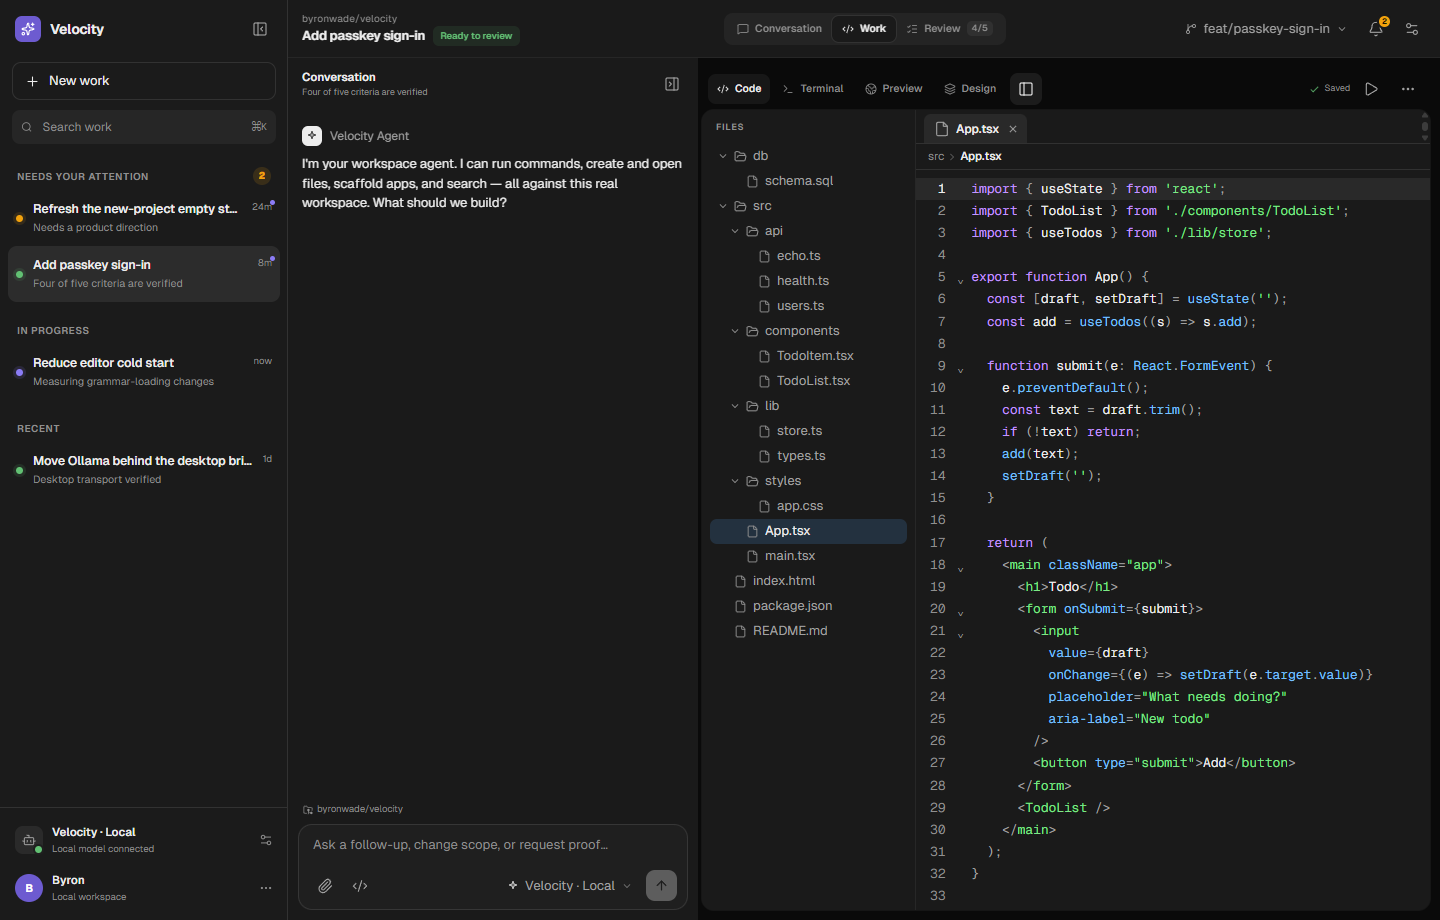
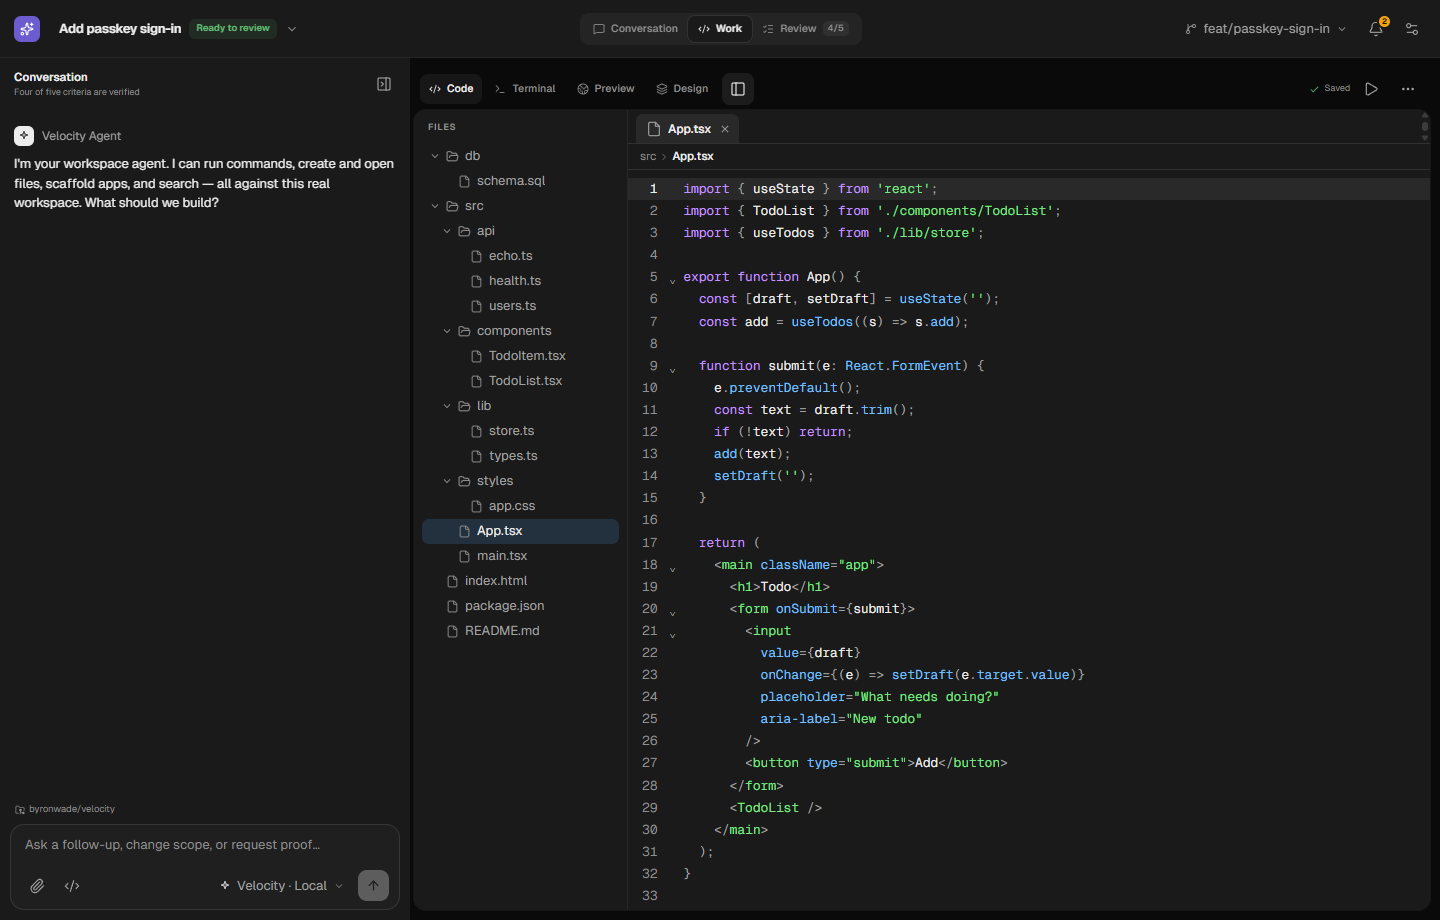
feat(ui): Framer-style top-header-only layout — remove the sidebar
Fold the entire workstream sidebar into a header dropdown so the whole space
below the top bar is working canvas.

- New WorkstreamSwitcher popover (search, grouped list, new-work, account +
  provider footer) opens from a header trigger showing the current workstream
  title + status. Closes on select / outside-click / Escape.
- Header is now a single bar: logo + switcher | Conversation/Work/Review tabs |
  branch · attention · settings. Removed the sidebar, its backdrop, the
  open/close controls, and all sidebarOpen state.
- The Work view (conversation + file tree + editor) and every view now span the
  full width — no 288px rail.
- README + screenshots updated for the new layout.

diff --git a/src/workbench/VelocityWorkbench.tsx b/src/workbench/VelocityWorkbench.tsx
@@ -24,11 +24,9 @@ import {
 	Layers3,
 	ListChecks,
 	LoaderCircle,
-	Menu,
 	MessageSquare,
 	Moon,
 	MoreHorizontal,
-	PanelLeftClose,
 	PanelRightClose,
 	PanelRightOpen,
 	Paperclip,
@@ -148,57 +146,49 @@ function WorkstreamRow({ workstream, active, onSelect }: WorkstreamRowProps) {
 	);
 }
 
-interface SidebarProps {
-	open: boolean;
+interface SwitcherProps {
 	search: string;
 	onSearch: (value: string) => void;
 	workstreams: Workstream[];
 	activeId: string | null;
 	onSelect: (id: string) => void;
 	onNew: () => void;
-	onClose: () => void;
 	onSettings: () => void;
 	provider: string;
 	ollamaHealthy: boolean | null;
 }
 
-function WorkstreamSidebar({ open, search, onSearch, workstreams, activeId, onSelect, onNew, onClose, onSettings, provider, ollamaHealthy }: SidebarProps) {
+/** The workstream switcher — the sidebar's job, folded into a header popover so
+ *  the whole space below the top bar is working canvas (Framer-style). */
+function WorkstreamSwitcher({ search, onSearch, workstreams, activeId, onSelect, onNew, onSettings, provider, ollamaHealthy }: SwitcherProps) {
 	const filtered = useMemo(() => {
 		const q = search.trim().toLowerCase();
 		if (!q) return workstreams;
 		return workstreams.filter((work) => `${work.title} ${work.objective} ${work.repo}`.toLowerCase().includes(q));
 	}, [search, workstreams]);
 	const attention = filtered.filter((work) => work.status === 'needs-input' || work.status === 'review-ready' || work.status === 'blocked');
-	const active = filtered.filter((work) => work.status === 'running' || work.status === 'draft');
+	const running = filtered.filter((work) => work.status === 'running' || work.status === 'draft');
 	const recent = filtered.filter((work) => work.status === 'done');
 
 	return (
-		<aside className={`vw-sidebar${open ? ' open' : ''}`} aria-hidden={!open}>
-			<div className="vw-sidebar-top" data-tauri-drag-region>
-				<div className="vw-brand">
-					<span className="vw-brand-mark"><Sparkles /></span>
-					<span>Velocity</span>
-				</div>
-				<button className="vw-icon-btn" onClick={onClose} title="Close sidebar" aria-label="Close sidebar"><PanelLeftClose /></button>
-			</div>
+		<div className="vw-switcher-popover" role="dialog" aria-label="Switch workstream">
 			<button className="vw-new-work" onClick={onNew}><Plus />New work</button>
 			<label className="vw-search">
 				<Search />
-				<input value={search} onChange={(event) => onSearch(event.target.value)} placeholder="Search work" />
-				<span>⌘K</span>
+				<input autoFocus value={search} onChange={(event) => onSearch(event.target.value)} placeholder="Search work" />
 			</label>
 
-			<div className="vw-sidebar-scroll">
+			<div className="vw-switcher-scroll">
 				{attention.length > 0 && (
 					<section className="vw-work-group">
 						<div className="vw-group-label"><span>Needs your attention</span><b>{attention.length}</b></div>
 						{attention.map((work) => <WorkstreamRow key={work.id} workstream={work} active={work.id === activeId} onSelect={() => onSelect(work.id)} />)}
 					</section>
 				)}
-				{active.length > 0 && (
+				{running.length > 0 && (
 					<section className="vw-work-group">
 						<div className="vw-group-label"><span>In progress</span></div>
-						{active.map((work) => <WorkstreamRow key={work.id} workstream={work} active={work.id === activeId} onSelect={() => onSelect(work.id)} />)}
+						{running.map((work) => <WorkstreamRow key={work.id} workstream={work} active={work.id === activeId} onSelect={() => onSelect(work.id)} />)}
 					</section>
 				)}
 				{recent.length > 0 && (
@@ -210,7 +200,7 @@ function WorkstreamSidebar({ open, search, onSearch, workstreams, activeId, onSe
 				{filtered.length === 0 && <div className="vw-sidebar-empty">No matching workstreams</div>}
 			</div>
 
-			<div className="vw-sidebar-footer">
+			<div className="vw-switcher-footer">
 				<button className="vw-provider-row" onClick={onSettings}>
 					<span className={`vw-provider-icon${ollamaHealthy ? ' connected' : ''}`}><Bot /></span>
 					<span><b>{provider}</b><small>{ollamaHealthy === true ? 'Local model connected' : ollamaHealthy === false ? 'Ollama is offline' : 'Model and runtime settings'}</small></span>
@@ -222,34 +212,69 @@ function WorkstreamSidebar({ open, search, onSearch, workstreams, activeId, onSe
 					<MoreHorizontal />
 				</button>
 			</div>
-		</aside>
+		</div>
 	);
 }
 
 interface HeaderProps {
 	active: Workstream | null;
+	activeId: string | null;
 	layout: WorkbenchLayout;
-	sidebarOpen: boolean;
-	onOpenSidebar: () => void;
+	workstreams: Workstream[];
+	search: string;
+	onSearch: (value: string) => void;
+	onSelectWork: (id: string) => void;
+	onNew: () => void;
 	onLayout: (layout: WorkbenchLayout) => void;
 	onAttention: () => void;
 	onActivity: () => void;
 	onSettings: () => void;
 	attentionCount: number;
+	provider: string;
+	ollamaHealthy: boolean | null;
 }
 
-function WorkstreamHeader({ active, layout, sidebarOpen, onOpenSidebar, onLayout, onAttention, onActivity, onSettings, attentionCount }: HeaderProps) {
+function WorkstreamHeader({ active, activeId, layout, workstreams, search, onSearch, onSelectWork, onNew, onLayout, onAttention, onActivity, onSettings, attentionCount, provider, ollamaHealthy }: HeaderProps) {
+	const [switcherOpen, setSwitcherOpen] = useState(false);
 	const verified = active?.criteria.filter((criterion) => criterion.state === 'verified').length ?? 0;
+	useEffect(() => {
+		if (!switcherOpen) return;
+		function onDown(event: MouseEvent) {
+			if (!(event.target as Element).closest('.vw-switcher')) setSwitcherOpen(false);
+		}
+		function onKey(event: KeyboardEvent) {
+			if (event.key === 'Escape') setSwitcherOpen(false);
+		}
+		window.addEventListener('mousedown', onDown);
+		window.addEventListener('keydown', onKey);
+		return () => {
+			window.removeEventListener('mousedown', onDown);
+			window.removeEventListener('keydown', onKey);
+		};
+	}, [switcherOpen]);
 	return (
 		<header className="vw-header" data-tauri-drag-region>
 			<div className="vw-header-left">
-				{!sidebarOpen && <button className="vw-icon-btn" onClick={onOpenSidebar} title="Open sidebar" aria-label="Open sidebar"><Menu /></button>}
-				<div className="vw-title-block">
-					<span className="vw-breadcrumb">{active ? active.repo : 'Velocity'}</span>
-					<div className="vw-title-line">
-						<h1>{active?.title ?? 'New work'}</h1>
+				<span className="vw-brand-mark" aria-hidden><Sparkles /></span>
+				<div className="vw-switcher">
+					<button className={`vw-switcher-trigger${switcherOpen ? ' open' : ''}`} onClick={() => setSwitcherOpen((value) => !value)} aria-haspopup="dialog" aria-expanded={switcherOpen}>
+						<span className="vw-switcher-title">{active?.title ?? 'New work'}</span>
 						{active && <span className={`vw-status-pill ${statusTone(active.status)}`}>{active.status === 'running' && <LoaderCircle className="vw-rotate" />}{STATUS_LABEL[active.status]}</span>}
-					</div>
+						<ChevronDown />
+					</button>
+					{switcherOpen && (
+						<WorkstreamSwitcher
+							search={search}
+							onSearch={onSearch}
+							workstreams={workstreams}
+							activeId={activeId}
+							onSelect={(id) => { onSelectWork(id); setSwitcherOpen(false); }}
+							onNew={() => { onNew(); setSwitcherOpen(false); }}
+							onSettings={() => { onSettings(); setSwitcherOpen(false); }}
+							provider={provider}
+							ollamaHealthy={ollamaHealthy}
+						/>
+					)}
 				</div>
 			</div>
 
@@ -661,7 +686,6 @@ export function VelocityWorkbench() {
 	const [layout, setLayout] = useState<WorkbenchLayout>('conversation');
 	const [artifact, setArtifact] = useState<ToolKind>('editor');
 	const [openStudios, setOpenStudios] = useState<StudioKind[]>([]);
-	const [sidebarOpen, setSidebarOpen] = useState(true);
 	const [search, setSearch] = useState('');
 	const [attentionOpen, setAttentionOpen] = useState(false);
 	const [settingsOpen, setSettingsOpen] = useState(false);
@@ -716,7 +740,6 @@ export function VelocityWorkbench() {
 		function onNewWork() {
 			setActiveId(null);
 			setLayout('conversation');
-			if (window.innerWidth < 920) setSidebarOpen(false);
 		}
 		window.addEventListener('velocity:set-view', onSetView);
 		window.addEventListener('velocity:new-work', onNewWork);
@@ -731,7 +754,6 @@ export function VelocityWorkbench() {
 		setLayout(preferredLayout ?? 'conversation');
 		setWorkstreams((items) => items.map((item) => item.id === id ? { ...item, unread: false } : item));
 		setAttentionOpen(false);
-		if (window.innerWidth < 920) setSidebarOpen(false);
 	}
 
 	function createWorkstream(prompt: string) {
@@ -762,7 +784,6 @@ export function VelocityWorkbench() {
 		setWorkstreams((items) => [next, ...items]);
 		setActiveId(id);
 		setLayout('conversation');
-		setSidebarOpen(window.innerWidth >= 920);
 		void services.agent.send(`work:${id}`, prompt);
 	}
 
@@ -780,32 +801,24 @@ export function VelocityWorkbench() {
 	}
 
 	return (
-		<div className={`velocity-workbench${sidebarOpen ? ' sidebar-visible' : ''}`}>
-			<WorkstreamSidebar
-				open={sidebarOpen}
-				search={search}
-				onSearch={setSearch}
-				workstreams={[...workstreams].sort((a, b) => STATUS_ORDER.indexOf(a.status) - STATUS_ORDER.indexOf(b.status))}
-				activeId={activeId}
-				onSelect={selectWorkstream}
-				onNew={() => { setActiveId(null); setLayout('conversation'); if (window.innerWidth < 920) setSidebarOpen(false); }}
-				onClose={() => setSidebarOpen(false)}
-				onSettings={() => setSettingsOpen(true)}
-				provider={providerLabel(settings)}
-				ollamaHealthy={ollamaHealthy}
-			/>
-			{sidebarOpen && <button className="vw-sidebar-backdrop" aria-label="Close sidebar" onClick={() => setSidebarOpen(false)} />}
+		<div className="velocity-workbench">
 			<main className="vw-main">
 				<WorkstreamHeader
 					active={active}
+					activeId={activeId}
 					layout={layout}
-					sidebarOpen={sidebarOpen}
-					onOpenSidebar={() => setSidebarOpen(true)}
+					workstreams={[...workstreams].sort((a, b) => STATUS_ORDER.indexOf(a.status) - STATUS_ORDER.indexOf(b.status))}
+					search={search}
+					onSearch={setSearch}
+					onSelectWork={selectWorkstream}
+					onNew={() => { setActiveId(null); setLayout('conversation'); }}
 					onLayout={setLayout}
 					onAttention={() => setAttentionOpen(true)}
 					onActivity={() => setActivityOpen(true)}
 					onSettings={() => setSettingsOpen(true)}
 					attentionCount={attentionCount}
+					provider={providerLabel(settings)}
+					ollamaHealthy={ollamaHealthy}
 				/>
 				<div className="vw-body">
 					{!active && <EmptyConversation onCreate={createWorkstream} />}

diff --git a/src/styles/workbench.css b/src/styles/workbench.css
@@ -254,6 +254,23 @@
 .vw-model-chip { max-width: 135px; overflow: hidden; text-overflow: ellipsis; }
 .vw-attention-btn > span { position: absolute; top: 1px; right: 0; display: grid; min-width: 15px; height: 15px; place-items: center; padding: 0 3px; border: 2px solid var(--panel); border-radius: 8px; background: var(--warn); color: #1a1200; font-size: 8px; font-weight: 750; }
 
+/* Header workstream switcher — the sidebar's job, in a dropdown, so the whole
+   area below the top bar is working canvas. */
+.vw-switcher { position: relative; display: flex; min-width: 0; }
+.vw-switcher-trigger { display: inline-flex; max-width: 340px; height: 34px; align-items: center; gap: 8px; padding: 0 8px 0 10px; border-radius: 9px; color: var(--fg); transition: background var(--dur); }
+.vw-switcher-trigger:hover, .vw-switcher-trigger.open { background: color-mix(in srgb, var(--fg) 6%, transparent); }
+.vw-switcher-title { overflow: hidden; font-size: 13px; font-weight: 620; letter-spacing: -0.02em; text-overflow: ellipsis; white-space: nowrap; }
+.vw-switcher-trigger > svg { width: 14px; height: 14px; flex: none; color: var(--faint); transition: transform var(--dur); }
+.vw-switcher-trigger.open > svg { transform: rotate(180deg); }
+
+.vw-switcher-popover { position: absolute; top: calc(100% + 8px); left: 0; z-index: 50; display: flex; width: min(344px, calc(100vw - 24px)); max-height: min(560px, 72vh); flex-direction: column; padding: 8px; border-radius: 14px; background: var(--panel); box-shadow: var(--elev-2), 0 0 0 1px var(--line); animation: vw-pop 140ms var(--ease); }
+@keyframes vw-pop { from { opacity: 0; transform: translateY(-5px); } to { opacity: 1; transform: none; } }
+.vw-switcher-popover .vw-new-work { width: auto; margin: 2px 2px 8px; }
+.vw-switcher-popover .vw-search { width: auto; margin: 0 2px 8px; }
+.vw-switcher-scroll { min-height: 0; flex: 1; overflow: auto; padding: 0 2px 2px; scrollbar-width: thin; }
+.vw-switcher-scroll .vw-work-group:first-child { margin-top: 2px; }
+.vw-switcher-footer { flex: none; margin-top: 6px; padding: 6px 2px 2px; border-top: 1px solid var(--line); }
+
 .vw-body { min-height: 0; flex: 1; overflow: hidden; background: var(--panel); }
 
 .vw-empty-state { display: grid; width: 100%; height: 100%; place-items: center; overflow: auto; padding: 48px 24px; }
@@ -582,8 +599,6 @@
 }
 
 @media (max-width: 920px) {
-	.vw-sidebar { position: fixed; top: 0; bottom: 0; left: 0; box-shadow: 18px 0 50px rgba(0, 0, 0, 0.2); }
-	.vw-sidebar-backdrop { position: fixed; z-index: 19; display: block; inset: 0; background: rgba(0, 0, 0, 0.25); }
 	.vw-header { grid-template-columns: minmax(160px, 1fr) auto; }
 	.vw-layout-switch { position: absolute; left: 50%; bottom: -42px; z-index: 9; transform: translateX(-50%); box-shadow: var(--elev-2); }
 	.vw-header-actions { grid-column: 2; }

diff --git a/README.md b/README.md
@@ -4,9 +4,10 @@ Velocity is an open-source, local-first developer workstream environment. It kee
 conversation, implementation surfaces, acceptance criteria, evidence, and meaningful activity in
 one place.
 
-The interface is intentionally closer to ChatGPT and Cursor than a traditional multi-rail IDE:
-one collapsible workstream sidebar and one active piece of work. The sidebar closes completely;
-there is no residual icon rail.
+The interface is intentionally closer to Framer, ChatGPT, and Cursor than a traditional multi-rail
+IDE: a single top header and one active piece of work. There is no sidebar and no icon rail —
+switching workstreams happens from a dropdown in the header, so the entire space below the bar is
+working canvas.
 
 ![Velocity — the Work view: the conversation beside the code editor and its file tree](docs/screenshots/velocity-work.png)
 
@@ -35,8 +36,9 @@ persistence behind it.
 
 Implemented now:
 
-- Responsive ChatGPT-style workstream sidebar, search, new-work flow, and attention inbox.
-- Conversation, Work, and Review layouts with a shared active workstream.
+- A single top header: a workstream switcher (search, grouped list, new-work, account) in a
+  dropdown, the Conversation/Work/Review tabs, and an attention inbox — no sidebar or icon rail.
+- Conversation, Work, and Review layouts with a shared active workstream, filling the full canvas.
 - The full original toolset embedded in the new shell: editor, terminal, browser preview, design
   canvas, and nine specialized studios — with the file tree, command palette, quick-open, and the
   VS Code-style keyboard shortcut system all intact.